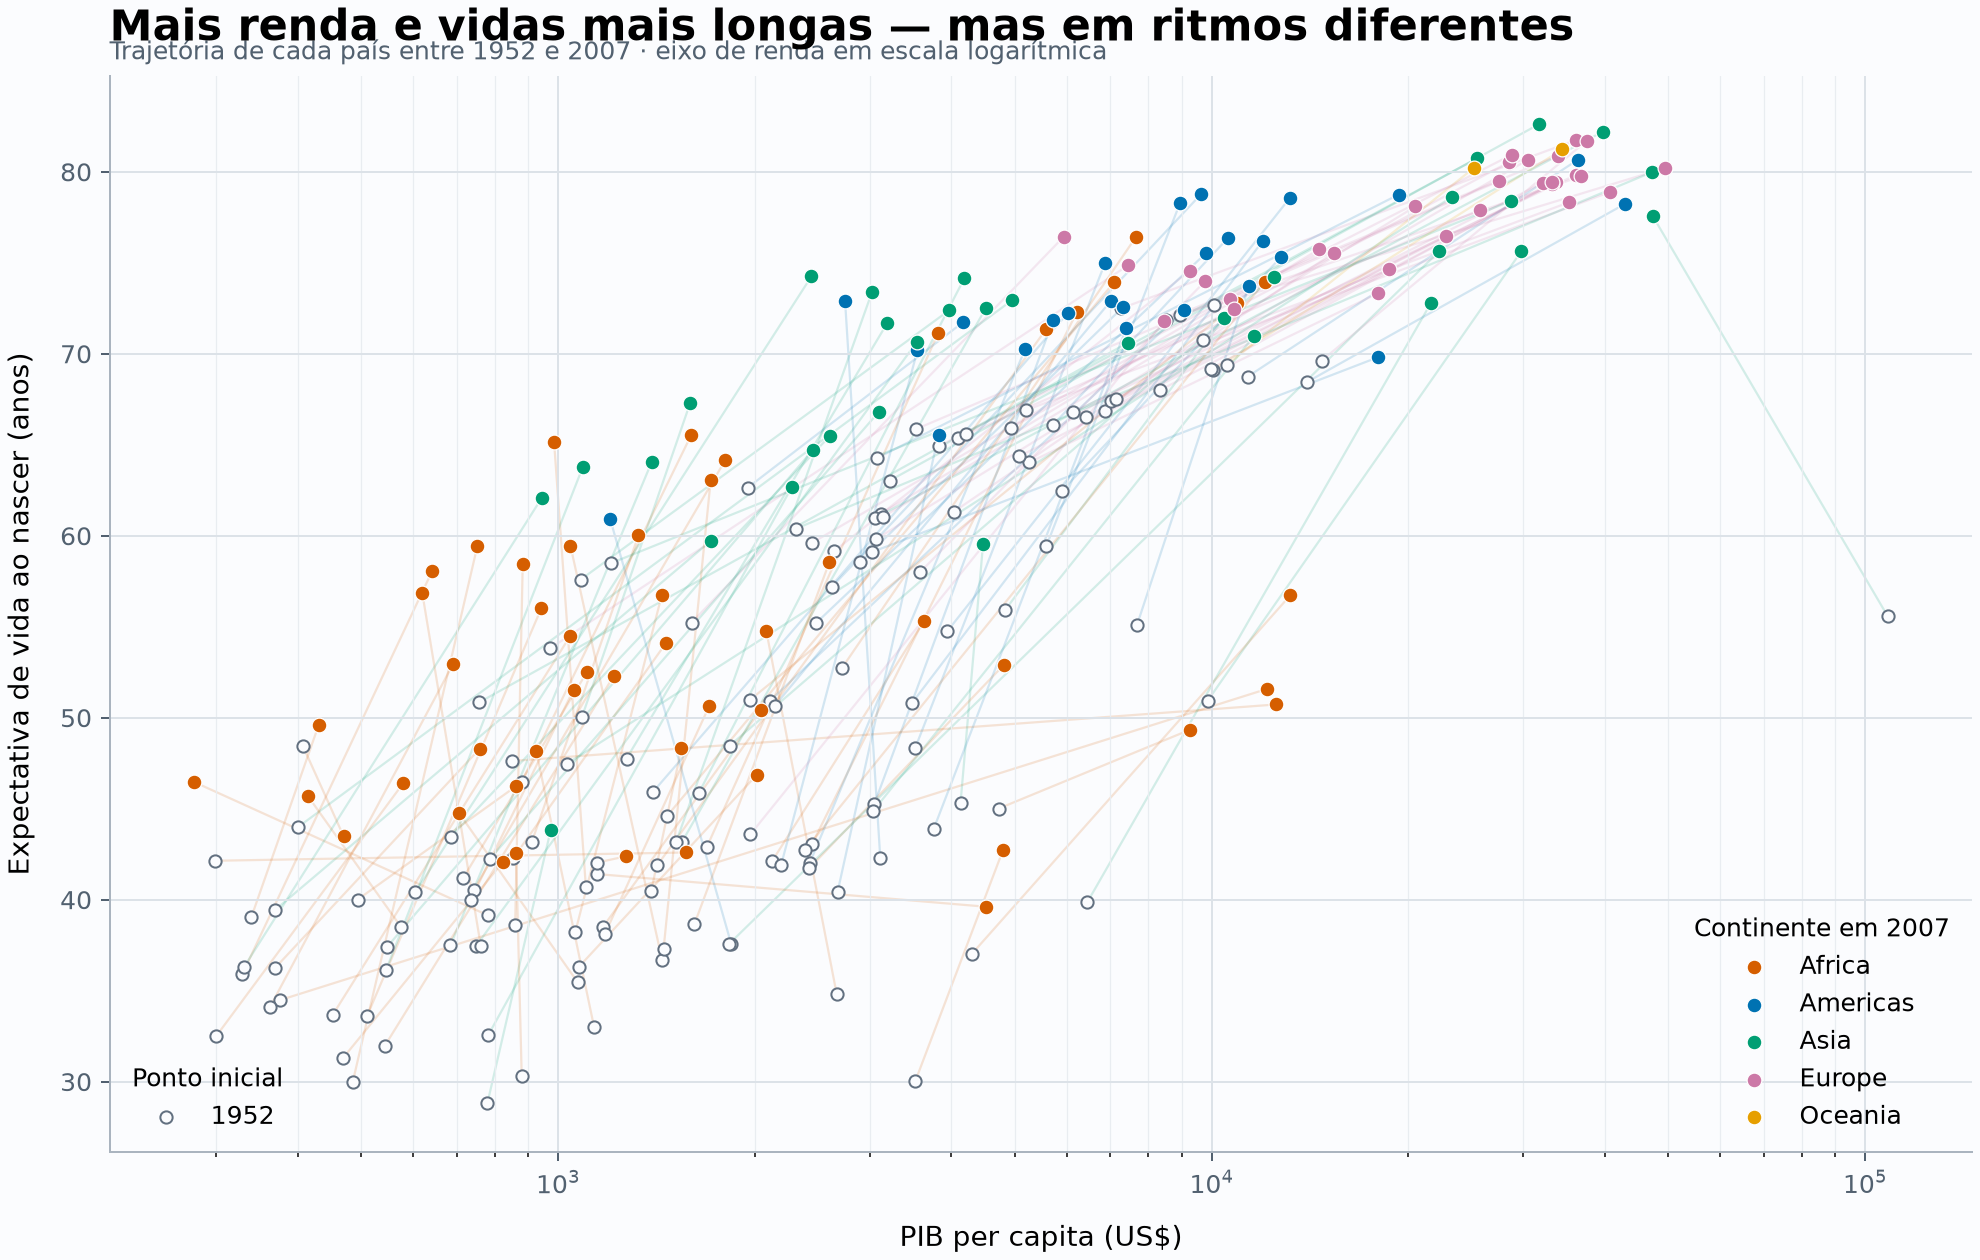
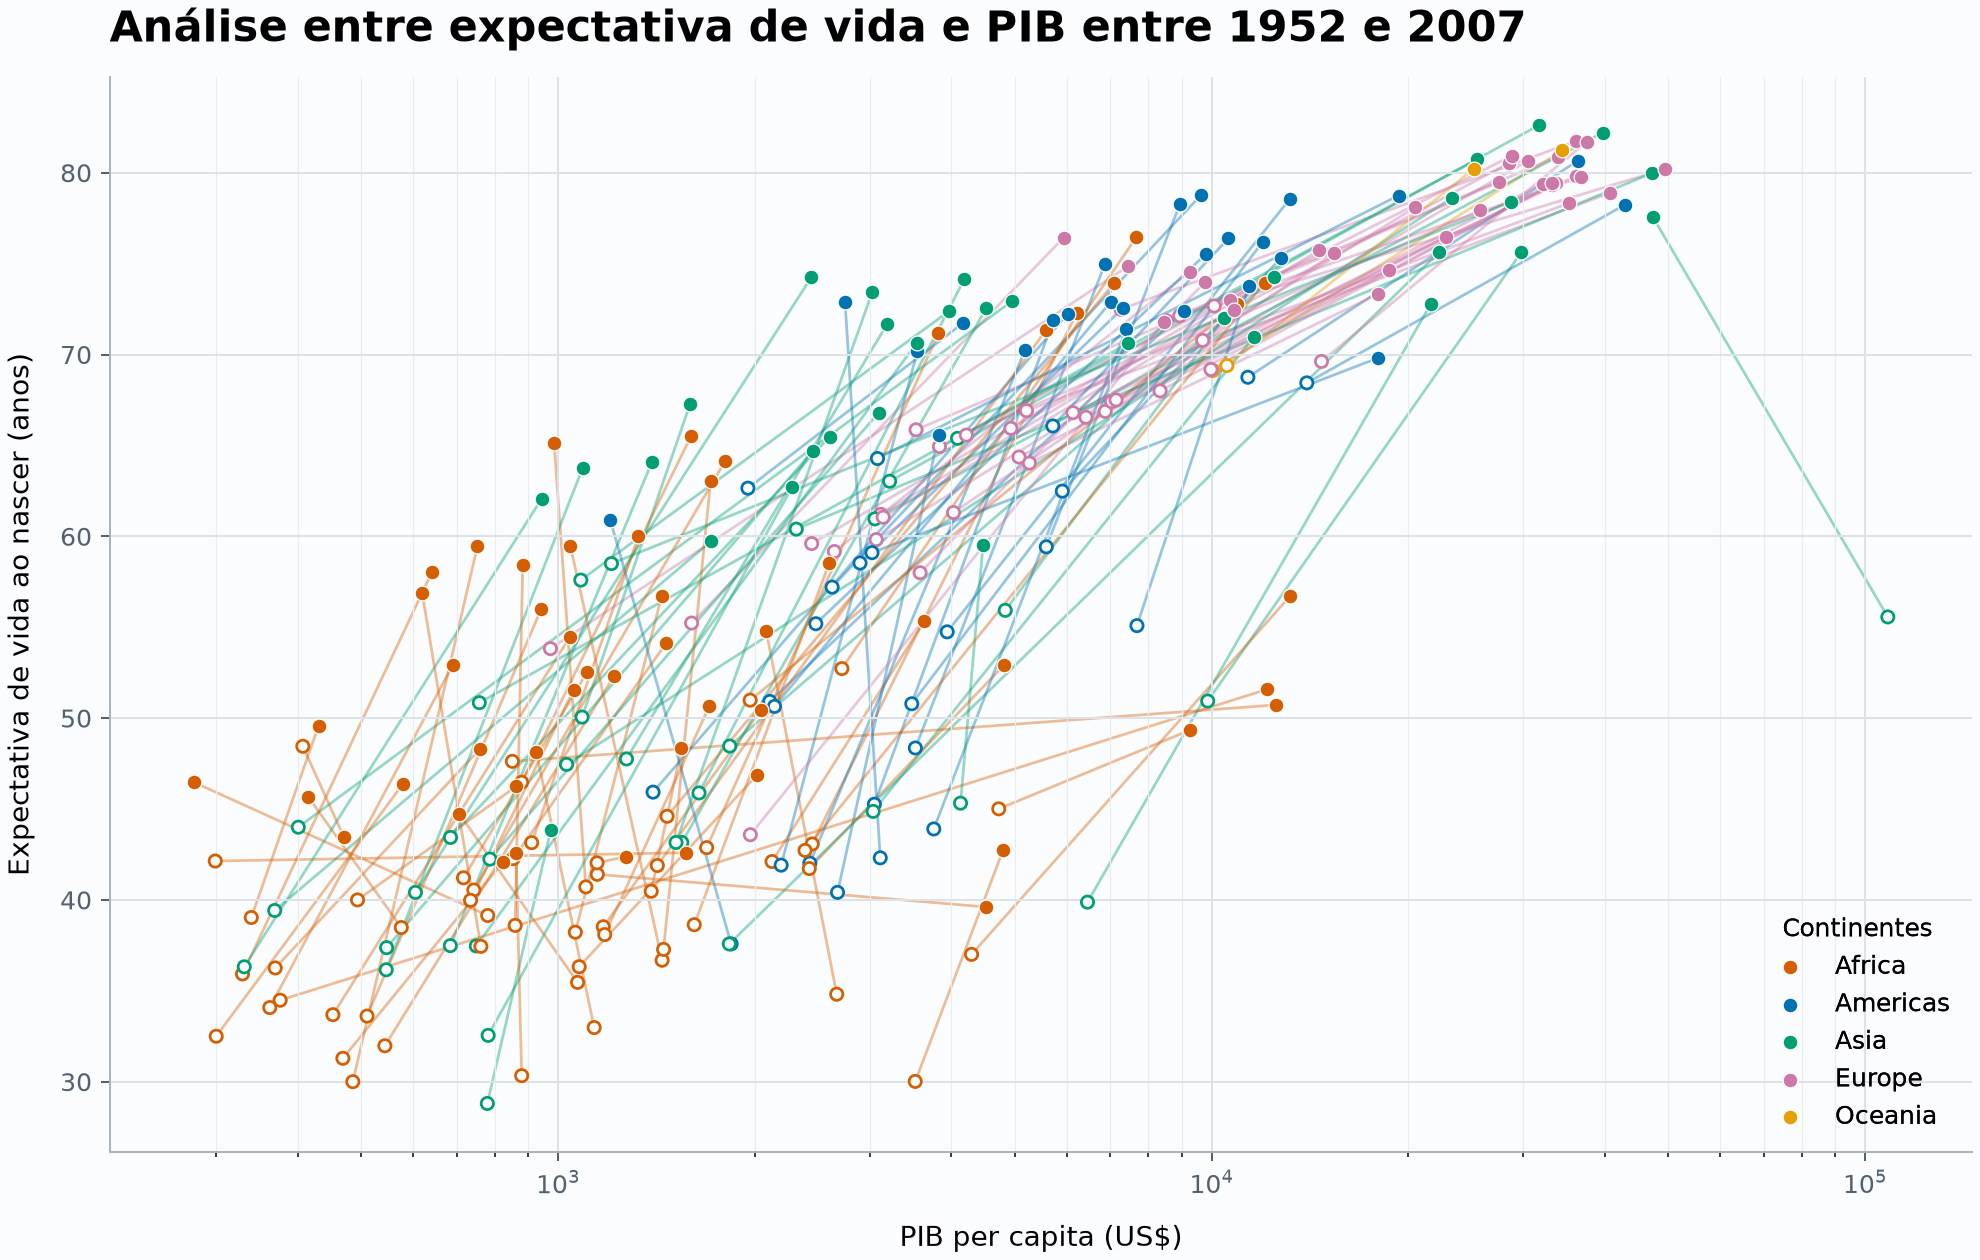
docs/refactor: atualiza RELATORIO/CHECKLIST e aplica mudanças no gráfico

diff --git a/plot_gapminder.py b/plot_gapminder.py
@@ -57,8 +57,8 @@ def create_visualization(output_path):
             [first["gdp_per_capita"], last["gdp_per_capita"]],
             [first["life_expectancy"], last["life_expectancy"]],
             color=CONTINENT_COLORS[last["continent"]],
-            alpha=0.16,
-            linewidth=0.9,
+            alpha=0.4,
+            linewidth=1.1,
             zorder=1,
         )
 
@@ -67,8 +67,8 @@ def create_visualization(output_path):
         [start[country]["life_expectancy"] for country in countries],
         s=24,
         facecolors="#FBFCFE",
-        edgecolors="#627080",
-        linewidths=0.8,
+        edgecolors=[CONTINENT_COLORS[end[country]["continent"]] for country in countries],
+        linewidths=1.1,
         label=str(YEARS[0]),
         zorder=2,
     )
@@ -92,19 +92,11 @@ def create_visualization(output_path):
     ax.set_xlabel("PIB per capita (US$)", fontsize=11, labelpad=10)
     ax.set_ylabel("Expectativa de vida ao nascer (anos)", fontsize=11, labelpad=10)
     ax.set_title(
-        "Mais renda e vidas mais longas — mas em ritmos diferentes",
+        "Análise entre expectativa de vida e PIB entre 1952 e 2007",
         loc="left",
         fontsize=17,
         fontweight="bold",
         pad=14,
-    )
-    ax.text(
-        0,
-        1.015,
-        "Trajetória de cada país entre 1952 e 2007 · eixo de renda em escala logarítmica",
-        transform=ax.transAxes,
-        fontsize=10,
-        color="#526170",
     )
     ax.grid(True, which="major", color="#DCE2E8", linewidth=0.8)
     ax.grid(True, which="minor", axis="x", color="#E9EDF1", linewidth=0.5)
@@ -115,25 +107,20 @@ def create_visualization(output_path):
     ax.spines["bottom"].set_color("#AAB4BF")
 
     handles, labels = ax.get_legend_handles_labels()
-    year_handle = handles.pop(0)
-    year_label = labels.pop(0)
+    continent_entries = [
+        (handle, label)
+        for handle, label in zip(handles, labels)
+        if label != str(YEARS[0])
+    ]
     legend = ax.legend(
-        handles,
-        labels,
-        title="Continente em 2007",
+        [handle for handle, _ in continent_entries],
+        [label for _, label in continent_entries],
+        title="Continentes",
         frameon=False,
         loc="lower right",
         ncol=1,
     )
     ax.add_artist(legend)
-    ax.legend(
-        [year_handle],
-        [year_label],
-        title="Ponto inicial",
-        frameon=False,
-        loc="lower left",
-    )
-
     output_path.parent.mkdir(parents=True, exist_ok=True)
     fig.savefig(output_path, dpi=180, facecolor=fig.get_facecolor())
     plt.close(fig)

diff --git a/RELATORIO.md b/RELATORIO.md
@@ -6,8 +6,8 @@
 
 ## Identificação
 
-- **Nome**: <mark>`<preencher>`</mark>
-- **Cartão UFRGS:** <mark>`<preencher>`</mark>
+- **Nome**: <mark>`Leonardo Greco Fin`</mark>
+- **Cartão UFRGS:** <mark>`00595687`</mark>
 
 ## Dados utilizados
 
@@ -17,11 +17,11 @@
 > - Se houver mais de um conjunto de dados, liste todos separadamente.
 > - Para cada conjunto de dados, inclua também uma **descrição curta** explicando os dados.
 
-1. **Dataset 1**: <mark>`<link>`</mark>
-    * **Descrição curta**: <mark>`<preencher>`</mark>
-2. **Dataset 2**: <mark>`<link>`</mark>
-    * **Descrição curta**: <mark>`<preencher>`</mark>
-3. ...
+1. **Dataset 1**: <mark>`<https://www.gapminder.org/data/>'</mark>
+    * **Descrição curta**: <mark>`O dataset é um recorte que contém dados de 142 países entre 1952-2007 em intervalos de cinco anos (apesar da comparação ser somente entre os pontos de início e final do estudo). Os atributos do dataset incluem: país, continente, ano, expectativa de vida ao nascer, população e PIB per capita (sendo que este último é expresso em dólar estadunidense ajustados pela inflação.)`</mark>
+
+ 
+
 
 ## Código-fonte da visualização
 
@@ -29,8 +29,9 @@
 >
 > - Indique abaixo onde está, dentro deste repositório, o código-fonte usado para gerar a visualização.
 
-- **Arquivo principal**: <mark>`<preencher>`</mark>
-- **Arquivos complementares (se houver)**: <mark>`<preencher>`</mark>
+- **Arquivo principal**: <mark>`plot_gapminder.py`</mark>
+- **Arquivos complementares (se houver)**: <mark>`data/gapminder.tsv (contém os dados) e requirements.txt (contém as dependências necessárias)`</mark>
+
 
 ## Imagem da visualização gerada
 
@@ -39,9 +40,7 @@
 > - Insira aqui uma imagem da visualização criada por você. Troque `imagem-da-visualizacao.png` pelo caminho correto do arquivo no repositório. 
 > - Se você criou alguma visualização interativa, então descreva aqui como acessá-la. Por exemplo, se for uma página HTML, coloque o link, ou se for uma visualização 3D, descreva como compilar e executar o código. 
 
-<mark>`<preencher abaixo>`</mark>
-
-![Visualização resultante](imagem-da-visualizacao.png)
+![Visualização resultante](visualizacao_gapminder.png)
 
 ## Descrição da visualização
 
@@ -52,7 +51,7 @@
 > - Escreva um texto curto explicando como interpretar a visualização. Descreva os elementos visuais, eixos, cores, símbolos ou interações relevantes.
 > - Este texto seria a legenda (*caption*) que acompanharia a figura em uma publicação, por exemplo.
 
-<mark>`<preencher>`</mark>
+<mark>`O gráfico representa a expectativa de vida ao nascer e o PIB per capita em 142 países comparando entre os anos de 1952 e 2007. Nesse contexto, cada país é representado por um círculo branco em 1952 (ponto inicial do estudo) e um ponto colorido em 2007 (ponto final do estudo). As linhas conectam as duas observações, mostrando a diferença das estatísticas, enquanto as cores indicam o continente do país em 2007 conforme a legenda na imagem, mudando o foco dos países para o continente de que pertencem. O eixo Y (vertical) representa a expectativa de vida em anos, e o PIB per capita representa o eixo X (horizontal), em dólar estadunidense considerando a inflação, em escala logarítmica.`</mark>
 
 ### Conclusão demonstrada pela visualização
 
@@ -61,4 +60,7 @@
 > - Escreva uma conclusão curta sobre os dados com base na visualização.
 > - Explique qual insight, padrão ou tendência pode ser observado.
 
-<mark>`<preencher>`</mark>
+<mark>`O gráfico nos permite fazer uma análise do contexto histórico e social dos diferentes continentes e suas evoluções. A relação entre riqueza e longevidade não é tão simples nem uma consequência direta uma da outra, mas uma soma de fatores sociais e históricos. A Europa, por exemplo, partiu de uma base mais alta e, apesar de exibir ganhos moderados de longevidade, é evidente um estancamento maior em comparação à Ásia que, partindo de uma base similar a da África, foi capaz de um salto de PIB/longevidade absurda comparando-se agora a países europeus. Por outro lado, a África, partindo de uma base similar no gráfico, possui ganhos mais ambíguos, com um aumento geral na expectativa de vida, mas um estancamento maior da economia, sugerindo que legados coloniais, guerras e entre outros retardam o progresso do continente africano, e causa divergências internas maiores. Enquanto isso, as Américas possuem trajetos mais estáveis e ascendentes, mantendo um certo padrão sem mudanças drásticas. Portanto, apesar que à primeira vista riqueza indica longevidade, na realidade fatores externos como política e história determinam quanto dessa riqueza é, ou não, convertida em longevidade.  `</mark>
+
+
+

diff --git a/CHECKLIST.md b/CHECKLIST.md
@@ -2,7 +2,7 @@
 
 Utilize este checklist para verificar se você fez tudo que é necessário:
 
-- [ ] Tarefa 1 :: Implementei o programa requisitado e coloquei o código neste repositório
-- [ ] Tarefa 1 :: Executei o programa e coloquei o resultado da visualização também neste repositório
-- [ ] Relatório :: Preenchi todos os locais marcados como <mark>`<preencher>`</mark> ou com <mark>`<link>`</mark> em [RELATORIO.md](RELATORIO.md)
-- [ ] Meta :: Não modifiquei os arquivos `README.md` e `TAREFAS.md`
+- [X] Tarefa 1 :: Implementei o programa requisitado e coloquei o código neste repositório
+- [X] Tarefa 1 :: Executei o programa e coloquei o resultado da visualização também neste repositório
+- [X] Relatório :: Preenchi todos os locais marcados como <mark>`<preencher>`</mark> ou com <mark>`<link>`</mark> em [RELATORIO.md](RELATORIO.md)
+- [X] Meta :: Não modifiquei os arquivos `README.md` e `TAREFAS.md`
